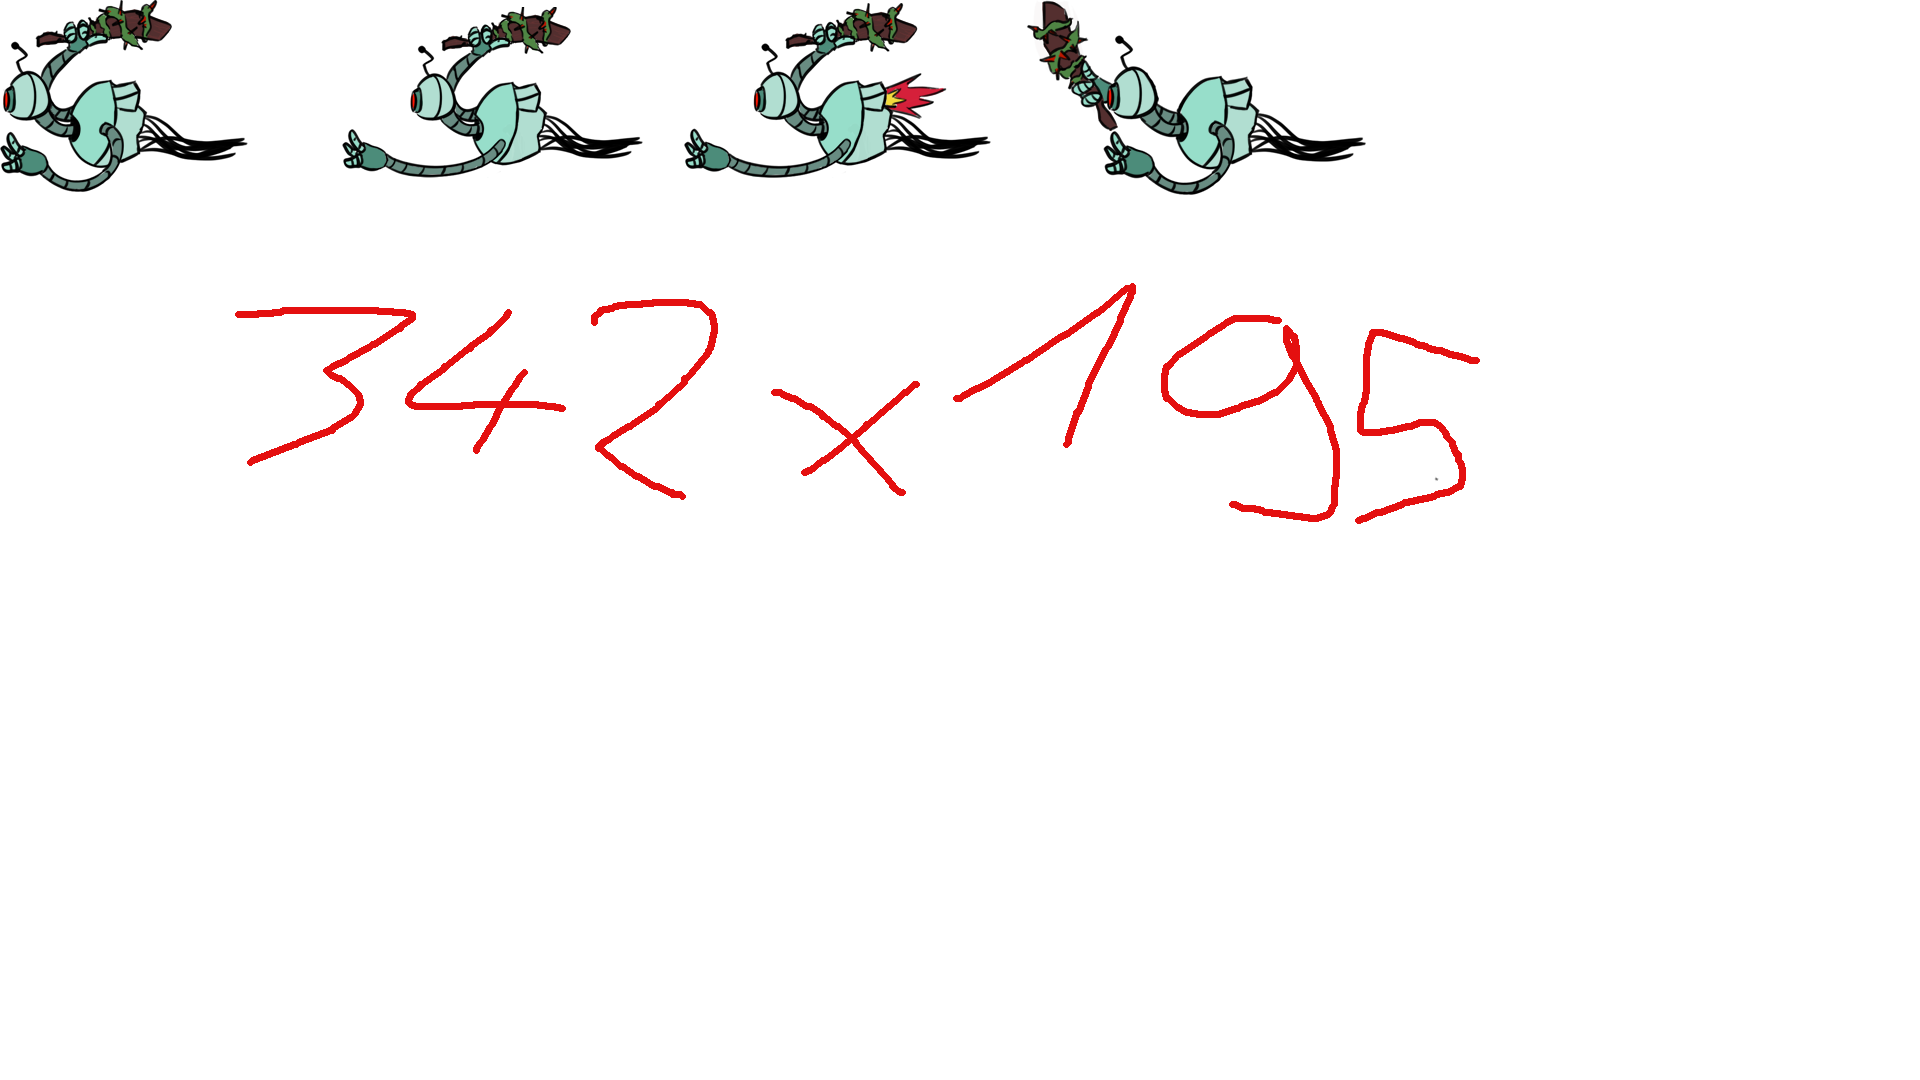
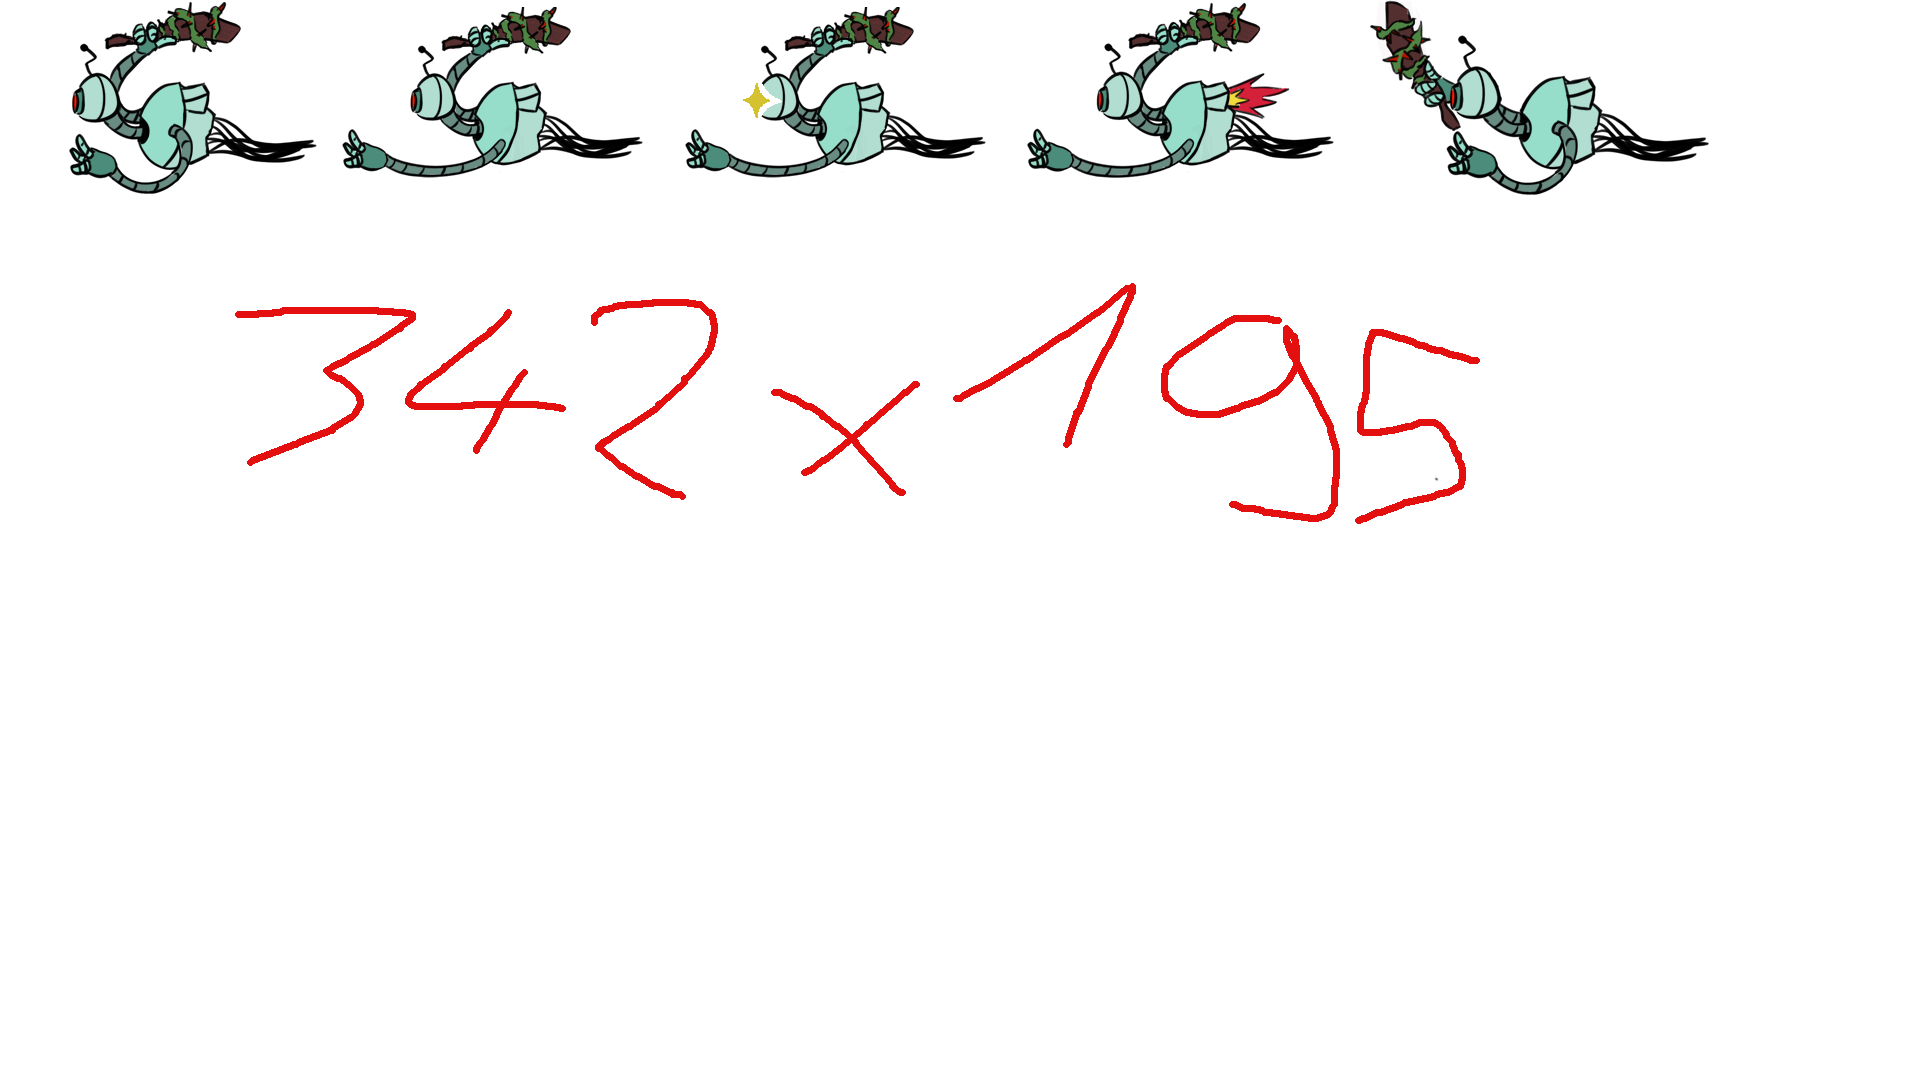
CHARGING BOSS FINI NO WAY

diff --git a/projet-mini-studio/scr/EntityManager.cpp b/projet-mini-studio/scr/EntityManager.cpp
@@ -30,7 +30,7 @@ void EntityManager::createEntity(string type, Vector2f position, const Vector2f&
 	if (type == "ChargingBoss") {
 		shared_ptr<ChargingBoss> chargingBoss = make_shared<ChargingBoss>(map);
 		chargingBoss->getSprite().setPosition(position);
-		chargingBoss->setTexture(textureManager.chargingBossTexture, 342, 195, 4, 0.1f);
+		chargingBoss->setTexture(textureManager.chargingBossTexture, 342, 195, 5, 0.1f);
 		chargingBoss->getSprite().setPosition(chargingBoss->getSprite().getPosition().x/* - chargingBoss->getSprite().getTextureRect().getSize().x*/,
 			chargingBoss->getSprite().getPosition().y - chargingBoss->getSprite().getTextureRect().getSize().y);
 		enemyVector.push_back(chargingBoss);

diff --git a/projet-mini-studio/include/ChargingBoss.hpp b/projet-mini-studio/include/ChargingBoss.hpp
@@ -16,6 +16,10 @@ public:
 	float dashTimer = 0;
 	float stunTimer = 0;
 
+	void isColliding(int x, int y, float dt) override;
+	Sprite wallCollideSprite;
+	const Sprite& getWallCollideSpriteConst() const;
+
 	std::vector<float> dashTimingVector = { 0.5, 0.75, 1, 1.25, 1.5, 1.25, 1.5 };
 	float dashTiming = 0;
 
